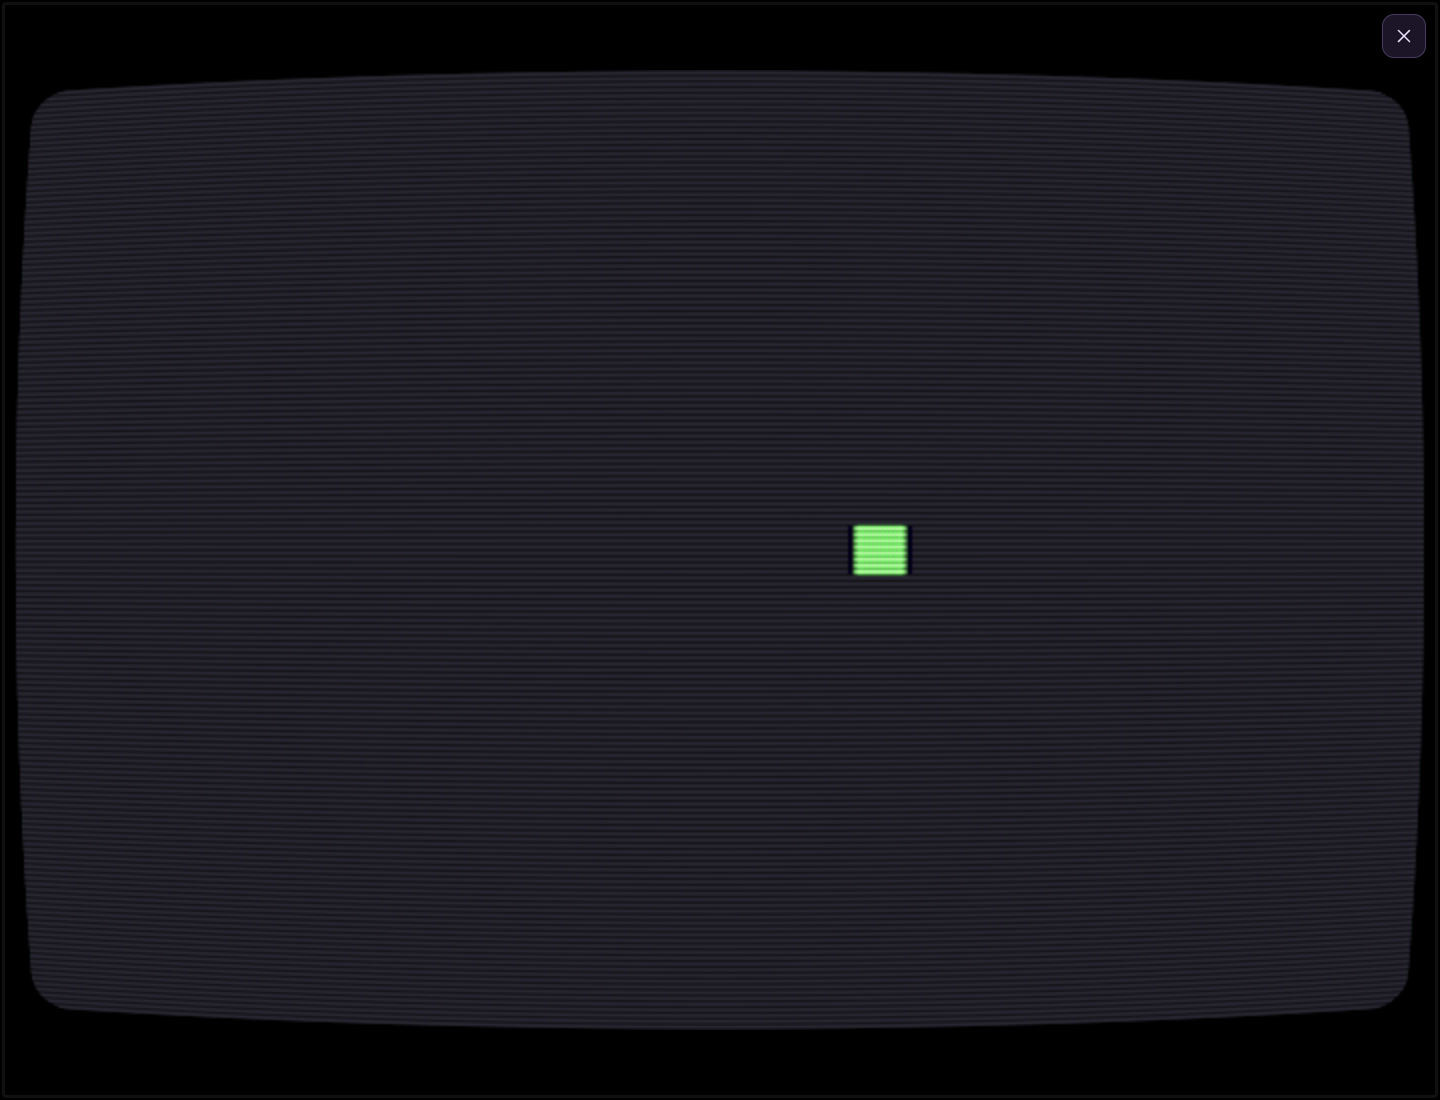
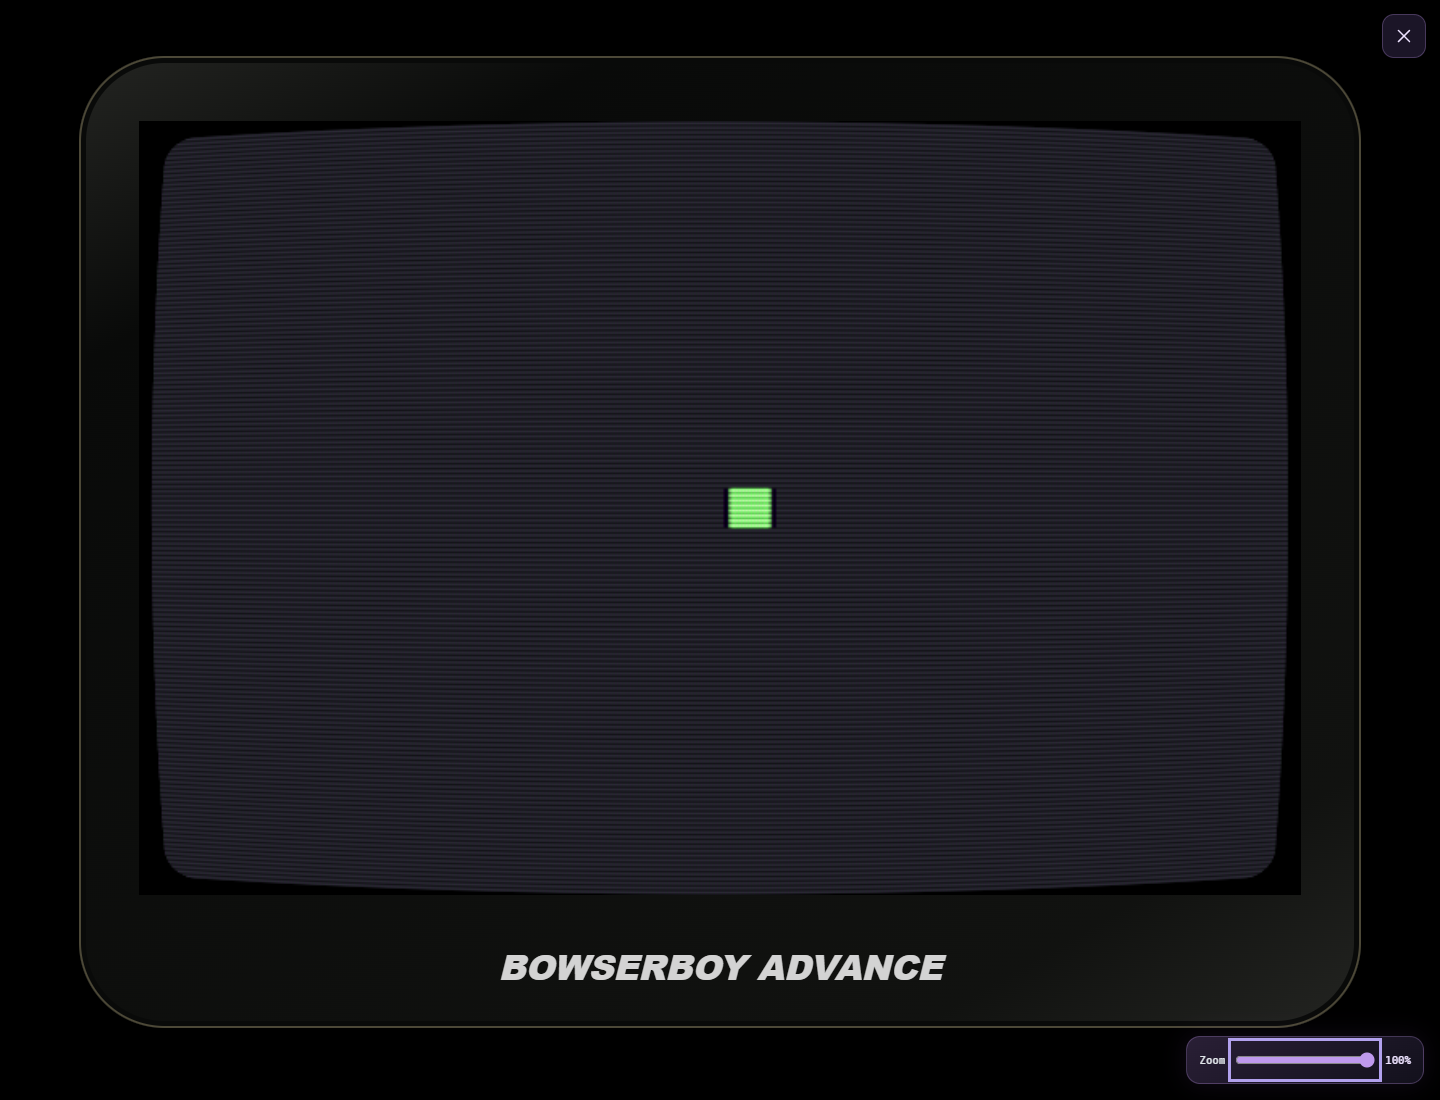
Document the verified speed and fullscreen release with actual public capture
Copilot-Session: 8e7d69ac-78f7-4310-8b8d-14bf8681a509

Changed region(s): [[0.0, 0.0309, 1.0, 0.9891], [0.5938, 0.4636, 0.6562, 0.5255], [0.5, 0.4327, 0.5625, 0.4945]]

diff --git a/docs/VERIFICATION.md b/docs/VERIFICATION.md
@@ -3,7 +3,20 @@
 The prototype has separate evidence layers. Test coverage alone is neither
 human acceptance nor deployment; the actual release evidence is recorded below.
 
-## Fast-forward and fullscreen-fit correction: local verification
+## Deployed fast-forward and fullscreen-fit correction
+
+Release `faece42da7563a74d39e1513ebeb7be543300ec0` / Pages `41841433989`
+passes build, 11 units, all 38 browser cases (13+13+12) and actual deployment.
+Independent production verification matches all 28 exact public assets.
+Four actual public Edge cases pass in 1.6m: cartridge-clock acceleration and
+VSync recovery, native audio buffering/volume, offline peak/mute rendering and
+the expanded real quick-action/fullscreen/save/restart case. The latter checks
+the complete bezel/picture, all four viewport sizes, 50-100% keyboard zoom,
+actual pixels/input, refusal recovery, both exits and retained runtime.
+The guide figure is refreshed from this actual public fullscreen capture;
+unrelated README GIFs are unchanged.
+
+### Diagnosis and local qualification
 
 The original cartridge's own SRAM VBlank clock reproduces the VSync conflict:
 the dock says 4x but the clock advances at only 1.016x baseline before the fix.
@@ -41,13 +54,14 @@ the final existing mobile-inspection case; no assertion fails, deploy skips.
 That exact case independently passes local SwiftShader in 26.4s, not a hosted
 gate substitute. The user manually reruns failed jobs; API confirms actual
 attempt 2 on unchanged source. It also passes build/19+18 cases but reaches
-the same deadline during the last mobile case; deployment remains blocked.
+the same deadline during the last mobile case; that attempt does not deploy.
 The user explicitly authorizes three browser shards instead of two. This
 changes scheduling only: all 38 tests, assertions, the 600-second per-shard
 deadline, 15-minute job deadline and required build/verify deployment
-dependencies are retained. The next normal gated release uses that schedule.
+dependencies are retained. CLI discovery proves all 38 tests assigned exactly
+once, 13+13+12. The next normal gated release succeeds as recorded above.
 
-## Current hardware branding and screen-focus release
+## Previous hardware branding and screen-focus release
 
 Source `807da8ef42594d3e0b2f8b788f66bed894483d21` passes syntax, build and
 11 units. Five focused actual Edge cases pass in 1.1m and the same five pass

diff --git a/docs/MEDIA.md b/docs/MEDIA.md
@@ -38,10 +38,17 @@ Sampled encoded beginning/middle/end frames were reviewed: pickup reaches the
 back and returns, boot ends on the idle LCD rather than the next drawer action,
 the original cartridge visibly seats, and independent lights actually change.
 No retiming or commercial game footage is used. The existing transparent logo
-banner is unchanged. The fullscreen figure is the same actual native framebuffer
-checked before/after real input, not a second emulator or 3D scene screenshot.
+banner is unchanged.
 The updated README banner and power-on embeds use media-revision query
 parameters so replacements have distinct image URLs without duplicating assets.
+
+The fullscreen figure was subsequently refreshed from actual deployed source
+`faece42da7563a74d39e1513ebeb7be543300ec0`, after the complete 38-case release
+gate, independent 28-asset match and four real public-browser cases passed.
+It shows the complete native framebuffer, proportional CSS bezel and bottom-right
+50-100% zoom. Actual pixels are checked before/after real input; this is not
+a second emulator or another rendering of the 3D room. The capture was reviewed.
+Only this affected figure changed; the interaction GIFs above remain unchanged.
 
 ## Complete effects, not logo fragments
 

diff --git a/docs/GUIDE.md b/docs/GUIDE.md
@@ -196,7 +196,7 @@ or refused requests display an explicit notice.
 Scene notices appear directly below the website logo; open tools retain notices
 inside their own panel.
 
-![Complete native Pixel Lab picture and bezel fitted in fullscreen with a bottom-right zoom slider](images/screen-fullscreen.png)
+![Complete native Pixel Lab picture and bezel fitted in fullscreen with a bottom-right zoom slider](images/screen-fullscreen.png?v=fullscreen-fit-20261104)
 
 *The original demo on the actual native CRT output, surrounded by the matching
 black bezel and monochrome print. No second emulator or reset; zoom only changes
